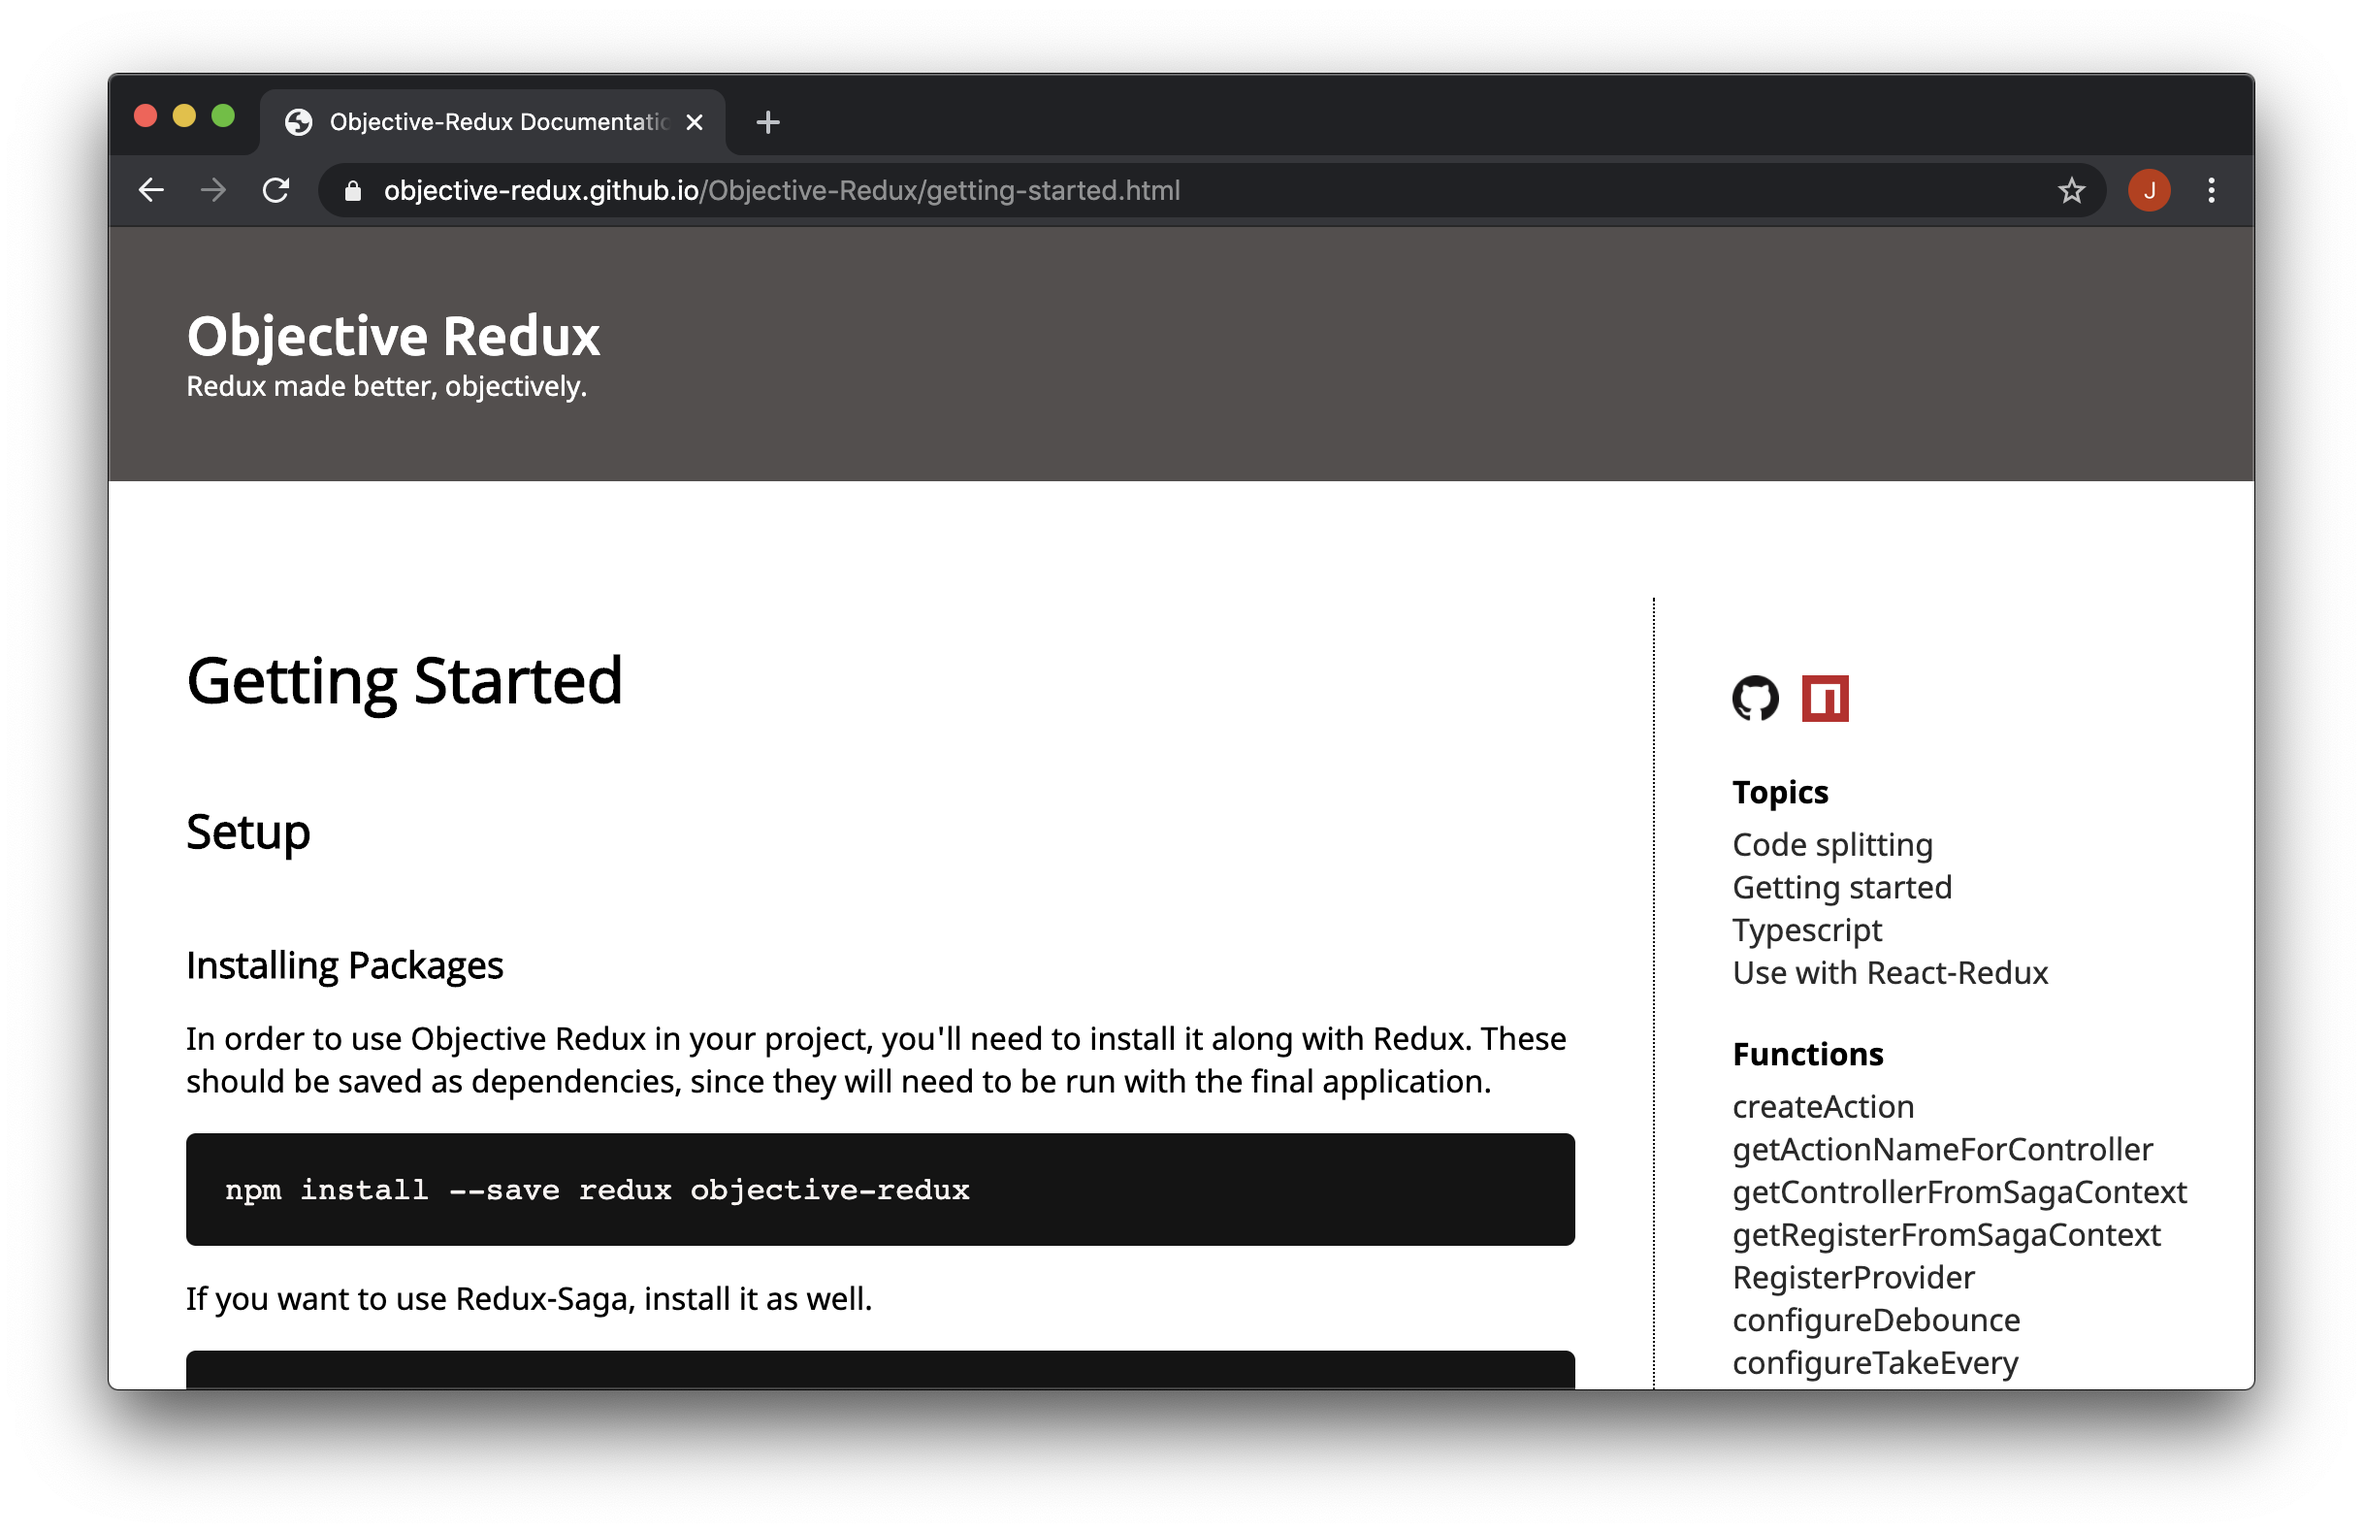
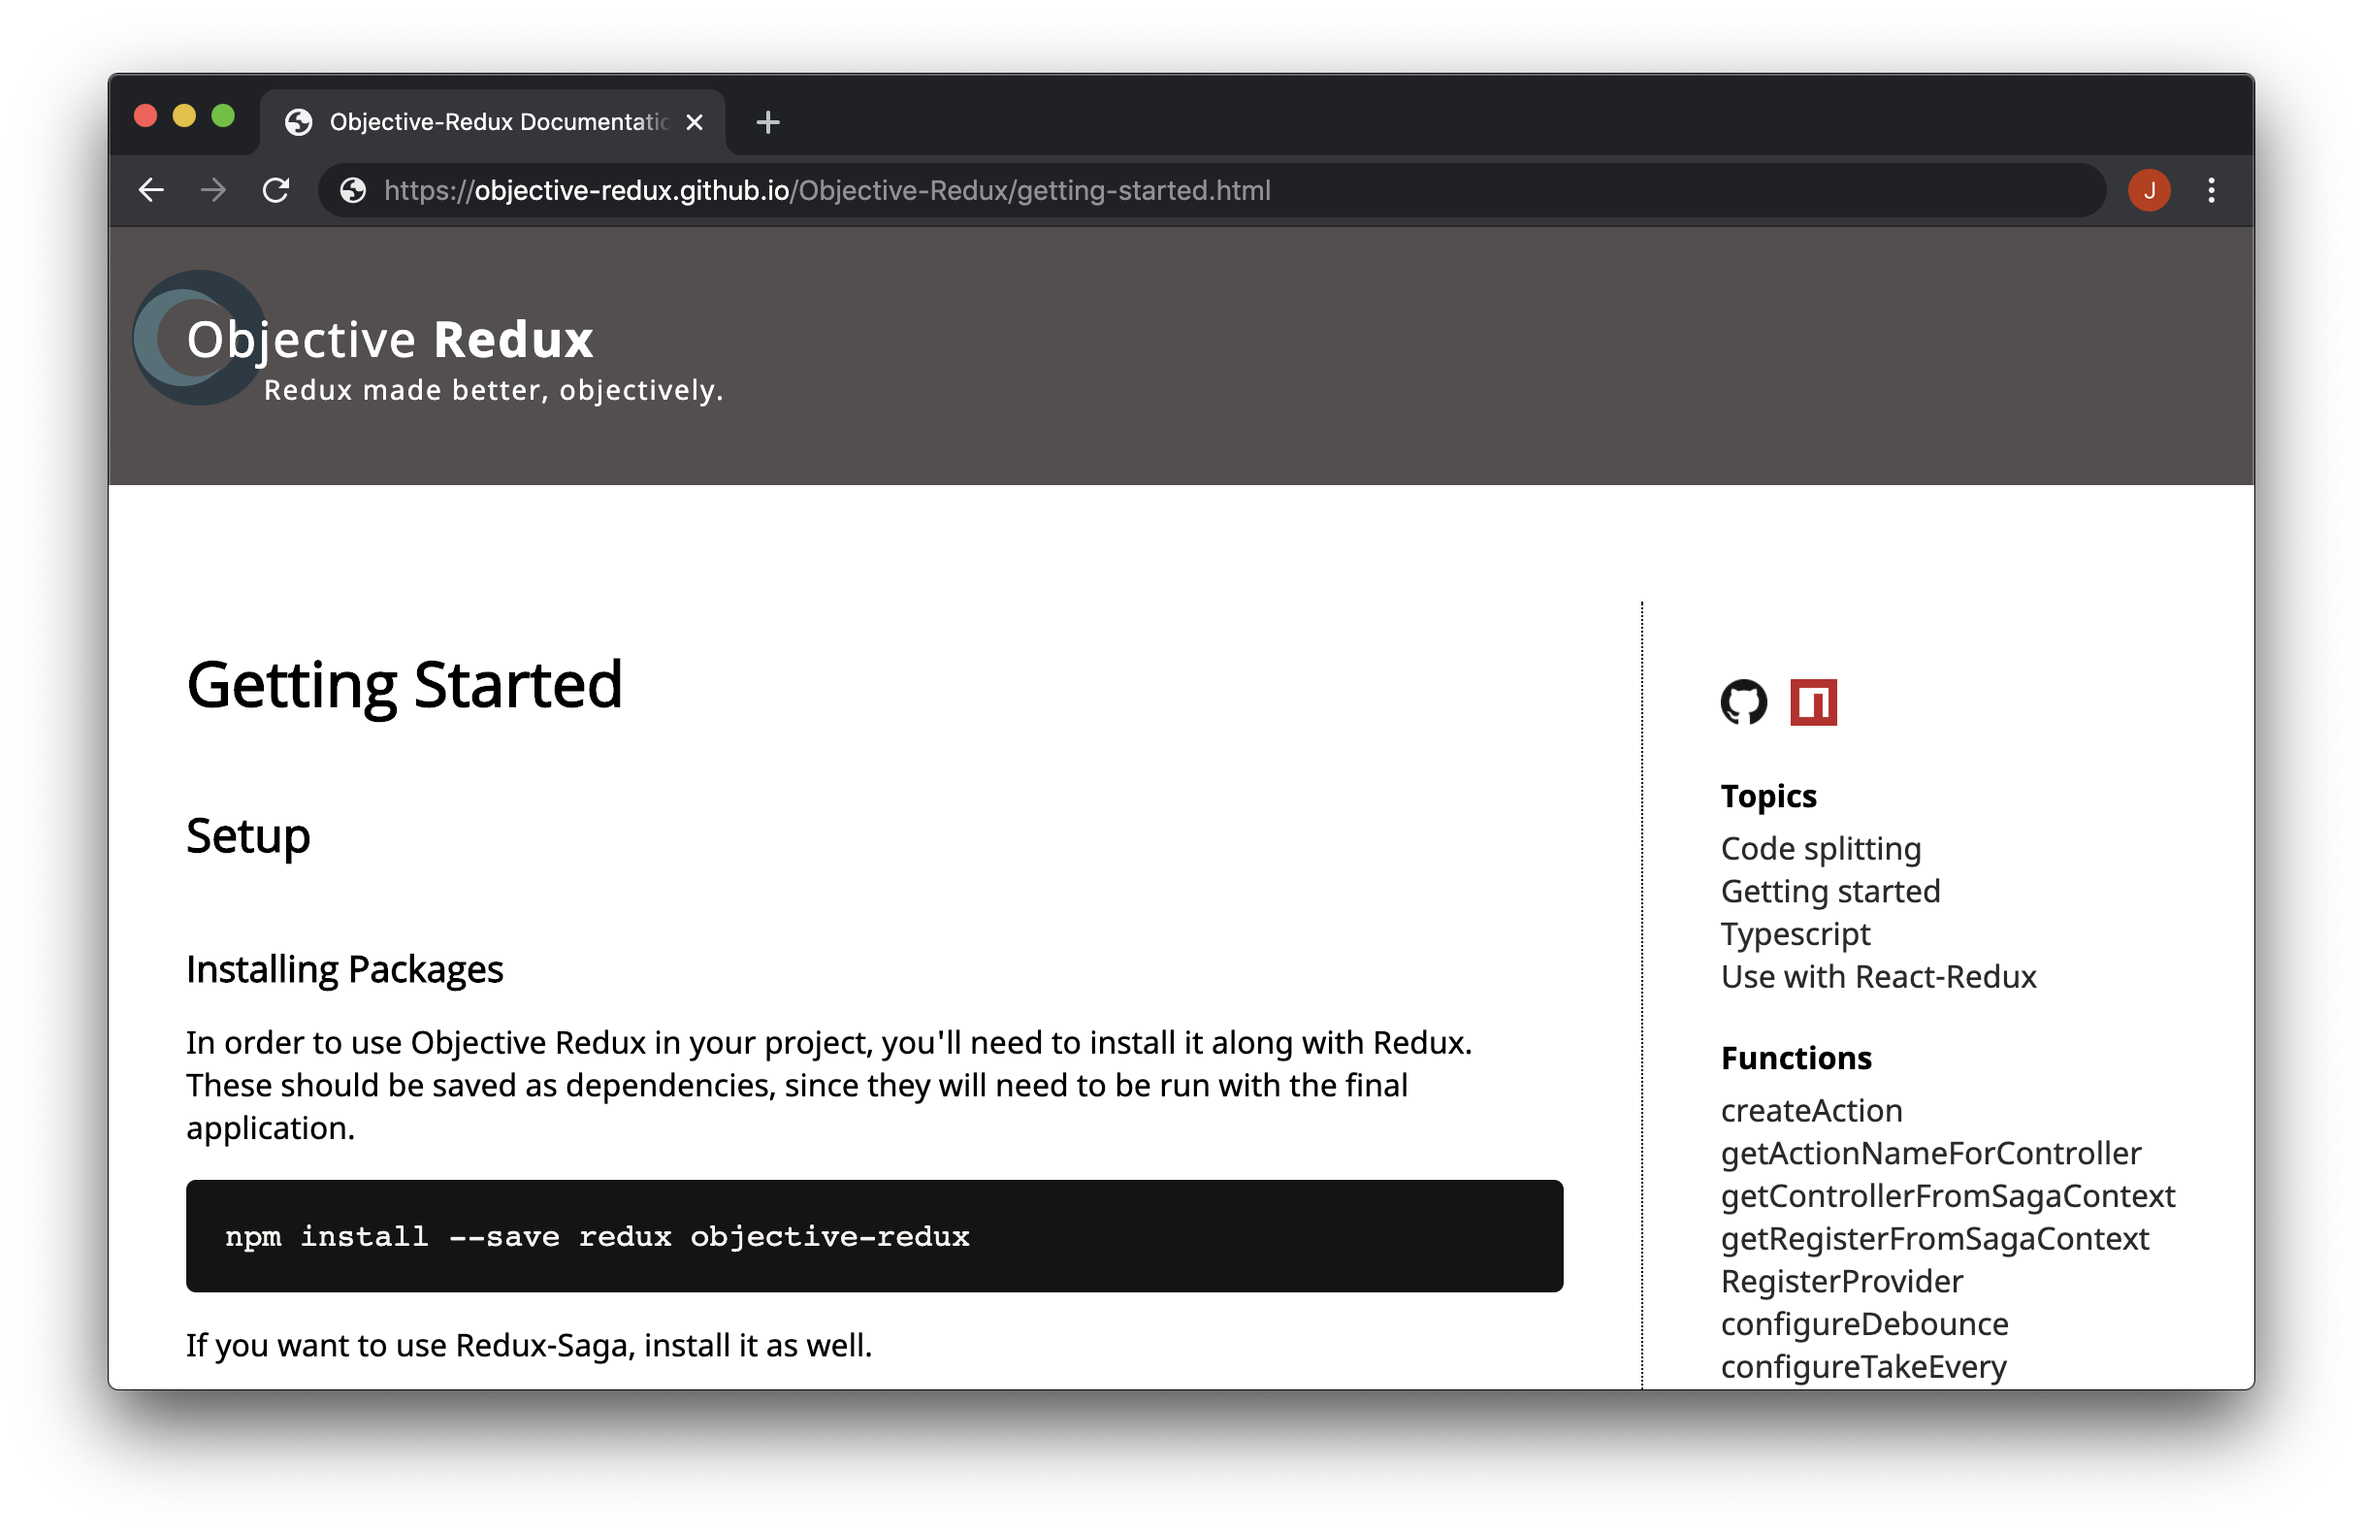
Updated docs

diff --git a/docs/docs.css b/docs/docs.css
@@ -25,6 +25,52 @@ header {
 
 header .left p:first-child {
   font-size: 1.8em;
+  text-indent: 0;
+}
+
+header .left p {
+  text-indent: 40px;
+}
+
+header .padded {
+  position: relative;
+}
+
+#logo, #logo2 {
+  width: 40px;
+  height: 40px;
+  position: absolute;
+  border: 15px solid #0B2C3D;
+  z-index: -1;
+  top: 22px;
+  left: 12px;
+  border-radius: 40px;
+  opacity: .6;
+}
+
+#logo:before {
+  content: '';
+  width: 0px;
+  height: 0px;
+  position: absolute;
+  border: 25px solid #69AEBB;
+  z-index: 1;
+  top: -5px;
+  left: -14px;
+  border-radius: 40px;
+  opacity: .7;
+}
+
+#logo:after {
+  content: '';
+  width: 40px;
+  height: 40px;
+  position: absolute;
+  background: #534F4E;
+  z-index: 1;
+  top: 0;
+  left: -2px;
+  border-radius: 100px;
 }
 
 header a {

diff --git a/scripts/templates/docs.css b/scripts/templates/docs.css
@@ -25,6 +25,52 @@ header {
 
 header .left p:first-child {
   font-size: 1.8em;
+  text-indent: 0;
+}
+
+header .left p {
+  text-indent: 40px;
+}
+
+header .padded {
+  position: relative;
+}
+
+#logo, #logo2 {
+  width: 40px;
+  height: 40px;
+  position: absolute;
+  border: 15px solid #0B2C3D;
+  z-index: -1;
+  top: 22px;
+  left: 12px;
+  border-radius: 40px;
+  opacity: .6;
+}
+
+#logo:before {
+  content: '';
+  width: 0px;
+  height: 0px;
+  position: absolute;
+  border: 25px solid #69AEBB;
+  z-index: 1;
+  top: -5px;
+  left: -14px;
+  border-radius: 40px;
+  opacity: .7;
+}
+
+#logo:after {
+  content: '';
+  width: 40px;
+  height: 40px;
+  position: absolute;
+  background: #534F4E;
+  z-index: 1;
+  top: 0;
+  left: -2px;
+  border-radius: 100px;
 }
 
 header a {

diff --git a/docs/code-splitting.html b/docs/code-splitting.html
@@ -14,6 +14,7 @@
       <div class="padded">
         <p><a href="./">Objective <b>Redux</b></a></p>
         <p>Redux made better, objectively.</p>
+        <div id="logo"></div>
       </div>
     </div>
   </header>

diff --git a/docs/componentconnector.html b/docs/componentconnector.html
@@ -14,6 +14,7 @@
       <div class="padded">
         <p><a href="./">Objective <b>Redux</b></a></p>
         <p>Redux made better, objectively.</p>
+        <div id="logo"></div>
       </div>
     </div>
   </header>

diff --git a/docs/configuredebounce.html b/docs/configuredebounce.html
@@ -14,6 +14,7 @@
       <div class="padded">
         <p><a href="./">Objective <b>Redux</b></a></p>
         <p>Redux made better, objectively.</p>
+        <div id="logo"></div>
       </div>
     </div>
   </header>

diff --git a/docs/configuretakeevery.html b/docs/configuretakeevery.html
@@ -14,6 +14,7 @@
       <div class="padded">
         <p><a href="./">Objective <b>Redux</b></a></p>
         <p>Redux made better, objectively.</p>
+        <div id="logo"></div>
       </div>
     </div>
   </header>

diff --git a/docs/configuretakelatest.html b/docs/configuretakelatest.html
@@ -14,6 +14,7 @@
       <div class="padded">
         <p><a href="./">Objective <b>Redux</b></a></p>
         <p>Redux made better, objectively.</p>
+        <div id="logo"></div>
       </div>
     </div>
   </header>

diff --git a/docs/configuretakeleading.html b/docs/configuretakeleading.html
@@ -14,6 +14,7 @@
       <div class="padded">
         <p><a href="./">Objective <b>Redux</b></a></p>
         <p>Redux made better, objectively.</p>
+        <div id="logo"></div>
       </div>
     </div>
   </header>

diff --git a/docs/controllernamenotdefined.html b/docs/controllernamenotdefined.html
@@ -14,6 +14,7 @@
       <div class="padded">
         <p><a href="./">Objective <b>Redux</b></a></p>
         <p>Redux made better, objectively.</p>
+        <div id="logo"></div>
       </div>
     </div>
   </header>

diff --git a/docs/createaction.html b/docs/createaction.html
@@ -14,6 +14,7 @@
       <div class="padded">
         <p><a href="./">Objective <b>Redux</b></a></p>
         <p>Redux made better, objectively.</p>
+        <div id="logo"></div>
       </div>
     </div>
   </header>

diff --git a/docs/getactionnameforcontroller.html b/docs/getactionnameforcontroller.html
@@ -14,6 +14,7 @@
       <div class="padded">
         <p><a href="./">Objective <b>Redux</b></a></p>
         <p>Redux made better, objectively.</p>
+        <div id="logo"></div>
       </div>
     </div>
   </header>

diff --git a/docs/getcontrollerfromsagacontext.html b/docs/getcontrollerfromsagacontext.html
@@ -14,6 +14,7 @@
       <div class="padded">
         <p><a href="./">Objective <b>Redux</b></a></p>
         <p>Redux made better, objectively.</p>
+        <div id="logo"></div>
       </div>
     </div>
   </header>
